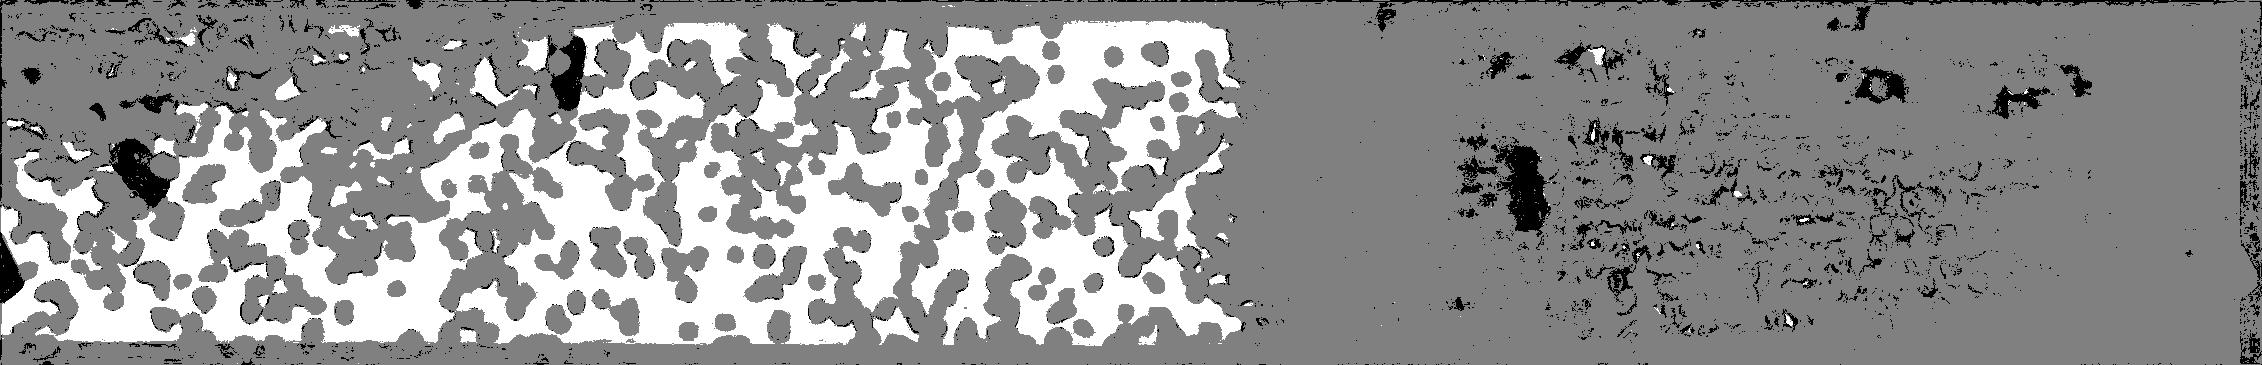
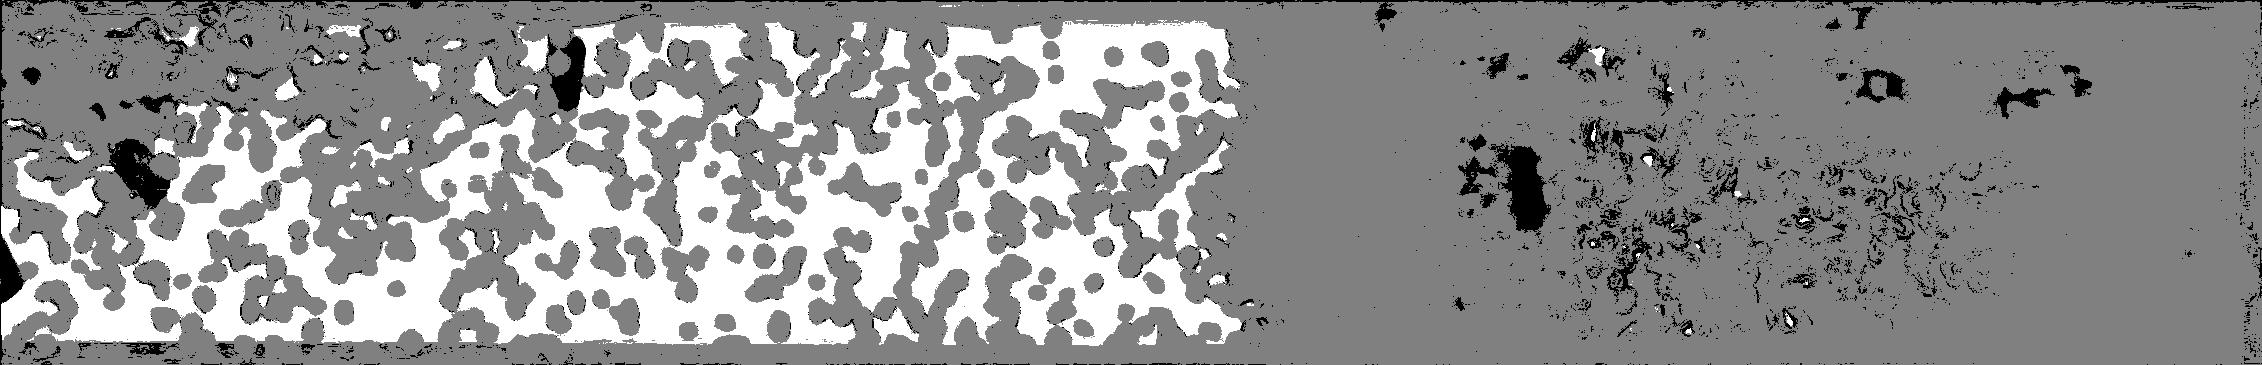
fixed output to use the updated filters.

diff --git a/segmentation_lgb_gabor.py b/segmentation_lgb_gabor.py
@@ -532,7 +532,7 @@ for img in new_cropped:
     X2_new = pd.DataFrame(X2_new)
     
     #get filter features
-    X_fil, filters = get_filters(train_images)
+    X_fil, filters = get_filters(img_in)
     
     #add VGG features and gabor features together
     df2 = pd.concat([X1_new, X2_new, X_fil], axis=1)
